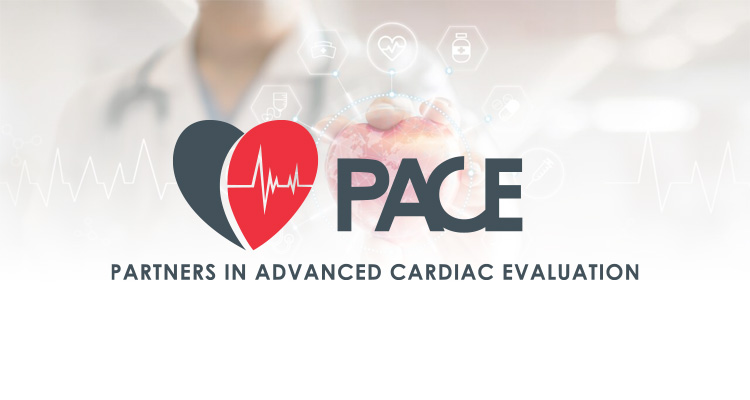
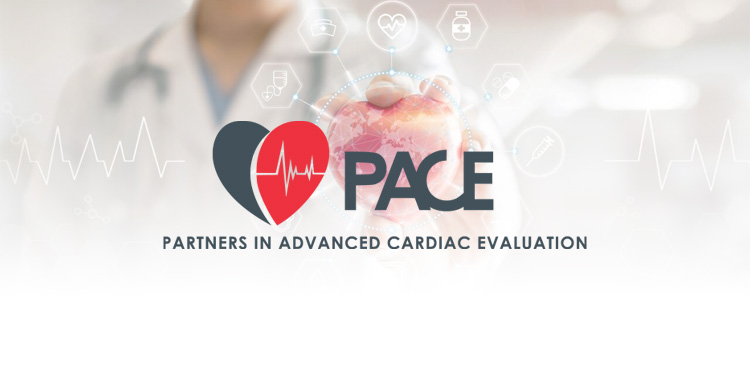
Update images and improve HTML formatting
Replaced img/clinic.png, img/herobanner.jpg, and img/shirt.png with updated versions. Cleaned up line breaks and formatting in index.html for better readability and consistency in service and procedure lists.

diff --git a/index.html b/index.html
@@ -484,20 +484,18 @@
                     "
                   >
                     <li style="margin-bottom: 14px">
-                      Cardiac Risk Reduction Clinic - NP-led
-                      (lipids, blood pressure, weight)
+                      Cardiac Risk Reduction Clinic - NP-led (lipids, blood
+                      pressure, weight)
                     </li>
                     <li style="margin-bottom: 14px">
                       Atrial Fibrillation Clinic
                     </li>
                     <li style="margin-bottom: 14px">
-                      General Cardiology Consults in Newmarket
-                      and Barrie
+                      General Cardiology Consults in Newmarket and Barrie
                     </li>
                     <li style="margin-bottom: 14px">
-                      Same-week assessments now available,
-                      including ECHO, GXT, and Holter services (Newmarket
-                      location only).
+                      Same-week assessments now available, including ECHO, GXT,
+                      and Holter services (Newmarket location only).
                     </li>
                   </ul>
 
@@ -809,20 +807,22 @@
                     "
                   >
                     <li style="margin-bottom: 14px">
-                      <strong>Cardioversions</strong> & <strong>Ablation Procedures</strong>
-
+                      Cardioversions & Ablation Procedures
                     </li>
                     <li style="margin-bottom: 14px">
-                      Expertise in <strong>pulsed field ablation</strong> (AFib) and <strong>radiation ablation</strong> (VT) for high-risk patients
+                      Expertise in pulsed field ablation (AFib) and radiation
+                      ablation (VT) for high-risk patients
                     </li>
                     <li style="margin-bottom: 14px">
-                      <strong>Pacemaker</strong> & <strong>Defibrillator Implantation</strong>
+                      Pacemaker & Defibrillator Implantation
                     </li>
                     <li style="margin-bottom: 14px">
-                      <strong>Left Atrial Appendage Occlusion</strong> (LAAO) using <strong>Watchman</strong> and <strong>Amulet devices</strong>
+                      Left Atrial Appendage Occlusion (LAAO) using Watchman and
+                      Amulet devices
                     </li>
                     <li style="margin-bottom: 14px">
-                      PACE is one of few centres <strong>worldwide</strong> performing combined <strong>AF ablation + LAAO</strong> in one procedure.
+                      PACE is one of few centres worldwide performing combined
+                      AF ablation + LAAO in one procedure.
                     </li>
                   </ul>
 
